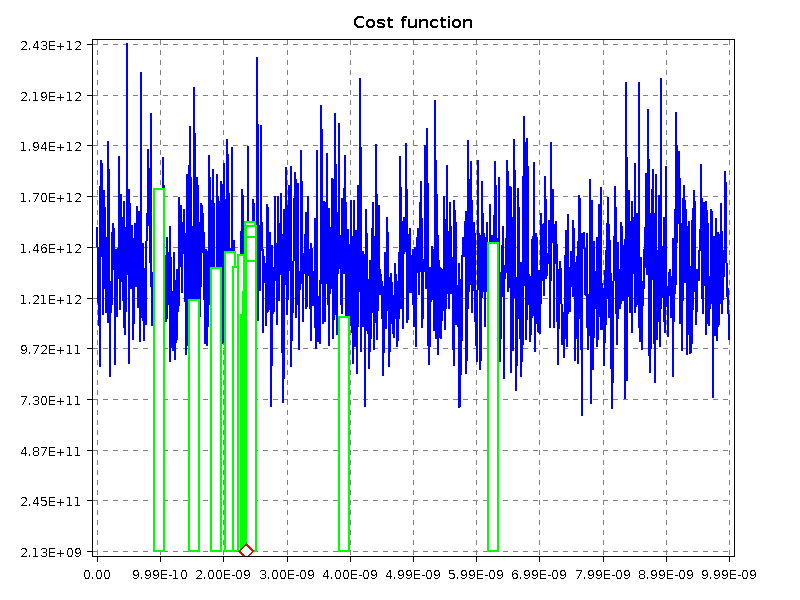
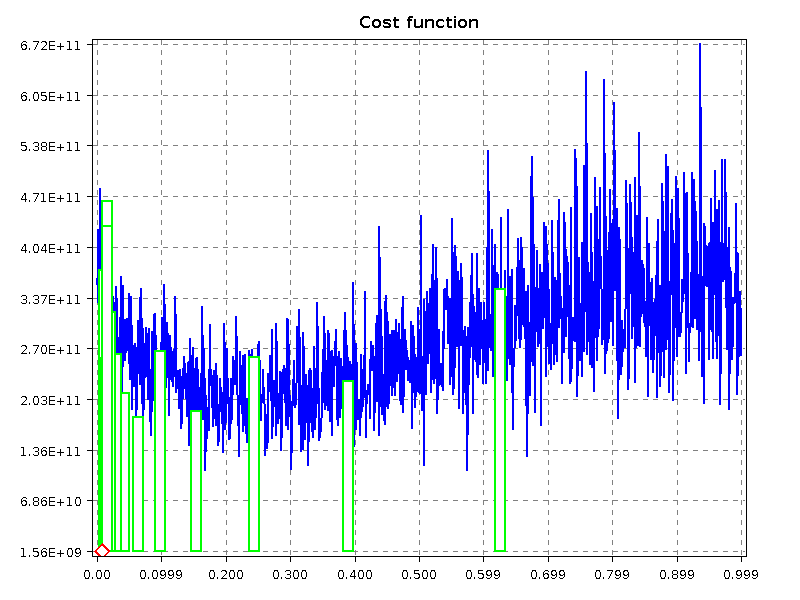
Maybe fixed untilaveragetolerance

diff --git a/src/main/kotlin/Utility.kt b/src/main/kotlin/Utility.kt
@@ -6,22 +6,22 @@ import kotlin.random.Random
 const val MAX_X = 1000.0
 const val MIN_X = 0.0
 
-fun cost(m: SimpleMatrix, f: (SimpleMatrix) -> SimpleMatrix, tolerance: Double = 0.00001): Double {
+fun cost(m: SimpleMatrix, f: (SimpleMatrix) -> SimpleMatrix): Double {
     var x: SimpleMatrix
     val mbar = m.rightInverse()
 
-    return untilAverageTolerance(tolerance) {
+    return untilAverageTolerance {
         x = randMatrix(m.numCols(), 1, MIN_X, MAX_X)
 
         specificCost(m, mbar, f, x).pow(2.0)
     }
 }
 
-fun     untilAverageTolerance(tolerance: Double = 0.000000000001, clusterSize: Int = 50, action: () -> Double): Double {
+fun untilAverageTolerance(tolerance: Double = 1.0E-5, clusterSize: Int = 50, action: () -> Double): Double {
     val averages = mutableListOf<Double>()
     var i = 0
 
-    while (i < 100 || averages.dropLast(1).map { abs(it - averages.last()) }.maxOrNull()!! > abs(averages.last() * tolerance)) {
+    while (averages.size < 5 || averages.dropLast(1).map { abs(it - averages.last()) }.maxOrNull()!! > abs(averages.last() * tolerance)) {
 
         var clusterAverage = 0.0
         repeat(clusterSize) {
@@ -29,9 +29,11 @@ fun     untilAverageTolerance(tolerance: Double = 0.000000000001, clusterSize: I
             clusterAverage = clusterAverage * (it.toDouble() / (it + 1)) + e / (it + 1)
         }
 
-        if (averages.size > 5) {
-            for (i in 0 until averages.size - 1)
-                averages[i] = averages[i+1]
+        if (averages.size >= 5) {
+            for (j in 0 until averages.size - 1)
+                averages[j] = averages[j+1]
+            averages[4] = averages[3] * (i * clusterSize).toDouble() / (i * clusterSize + 1)
+                          + clusterAverage / (i * clusterSize + 1)
         } else {
             averages.add(clusterAverage)
         }
@@ -57,7 +59,7 @@ fun randMatrix(numRows: Int, numCols: Int, from: Double, to: Double): SimpleMatr
     val m = SimpleMatrix(numRows, numCols)
 
     for (i in 0 until m.numElements) {
-        m[i] = Random.nextDouble(from, to)
+        m[i] = randomP.nextDouble(from, to)
     }
 
     return m

diff --git a/src/main/kotlin/Main.kt b/src/main/kotlin/Main.kt
@@ -16,9 +16,11 @@ val toyF = { x: SimpleMatrix ->
     y
 }
 
+val randomP = Random(0)
+
 fun main() {
-    Random(System.currentTimeMillis())
-    val sir = RandomSIR(15)
+    //Random(System.currentTimeMillis())
+    val sir = RandomSIR(8)
 
     val m = gradientDescent(sir.function, ::cost, sir.functionsCount, sir.functionsCount - 1, 100)
 

diff --git a/src/main/kotlin/GradientDescent.kt b/src/main/kotlin/GradientDescent.kt
@@ -11,7 +11,7 @@ import kotlin.math.pow
 import kotlin.math.sqrt
 import kotlin.random.Random
 
-const val h = 0.000001 // small number..
+const val h = 0.00001 // small number..
 val gr = (sqrt(5.0) + 1.0) / 2.0
 const val tolerance = 0.000000000001
 var gss_b = 0.1
